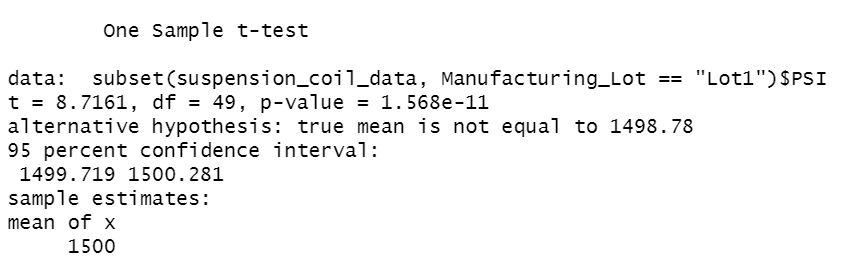
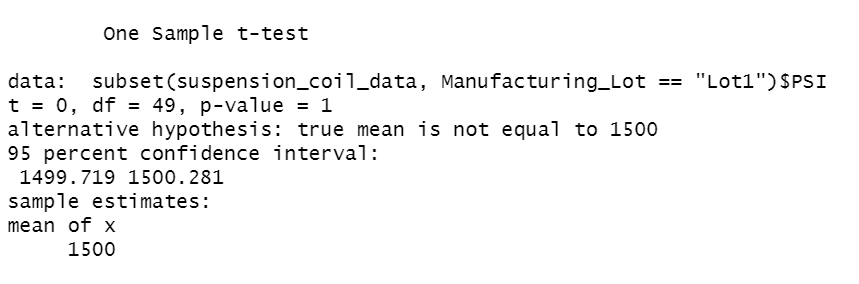
assignment resubmission

Changed region(s): [[0.0, 0.2433, 0.9788, 0.9734], [0.1224, 0.0913, 0.3671, 0.1521]]

diff --git a/README.md b/README.md
@@ -39,12 +39,19 @@ Lot 3 fails to meet this criteria, with a variance of 170 PSI.
 
 While Lot 3 fails to meet this criteria, the overall population does meet it because of the larger sample size diluting the impact of wider variation in PSI observed in the one lot.
 
-## T-Tests on Suspension Coils
+## T-Tests on Suspension Coils 
 
 The following T-Test summaries show:
-- Lot One has statistically the same mean as the population (P-Value = 1.7E-11)
-- Lot Two has the same statistical mean as the population (P-Value = 5.0E-4) but less so than Lot One
-- Lot Three does not have the same statistical mean as the population (P-Value = 0.16)
+- The samples from all lots do not have the same mean as the population (P-Value = 0.6) with a 95% confidence interval. They would be considered the same if the confidence interval was 94% or lower.
+- Lot One does not have the same mean as the population (P-Value = 1)
+- Lot Two does not have the same mean as the population (P-Value = 0.6)
+- Lot Three does have the same mean as the population (P-Value = 0.04), likely because it had the widest standard deviation of all lots, seen with a relatively large t (t=-2.1)
+
+The results of the t-test is swayed by the standard deviation of the sample data sets. The t values were large for the overall population and for Lot 3. Although Lot 3 had a wider than acceptable variance, it was the only sample to have a mean considered equal to 1500 PSI within a 95% confidence interval.
+
+### All Lots
+
+![](Resources/del3_all_lots.PNG)
 
 ### Lot One
 
